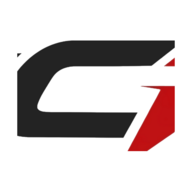
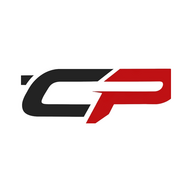
Corrige el ícono de la app: quita la transparencia y deja la "CP" completa
El ícono anterior conservaba su fondo transparente (el recorte solo le
agregaba lienzo blanco alrededor, sin aplanar la transparencia interna),
así que en el celular se veía con un fondo oscuro/recortado feo detrás de
la letra en vez de un fondo blanco limpio. También mostraba solo la "C"
con una esquina roja suelta de la "P". Ahora el ícono aplana todo a blanco
sólido (sin canal alfa) y muestra el monograma "CP" completo, bien
centrado con margen.

Claude-Session: https://claude.ai/code/session_017DWodS2TJv8UrLv9yacsAY

diff --git a/index.html b/index.html
@@ -9,7 +9,7 @@
 <link rel="apple-touch-icon" href="icon-180.png">
 <link rel="manifest" href="manifest.webmanifest">
 <meta name="theme-color" content="#8c1d24">
-<link rel="stylesheet" href="style.css?v=2026-11-23T05-25-30">
+<link rel="stylesheet" href="style.css?v=2026-11-23T05-31-31">
 <script src="https://cdn.jsdelivr.net/npm/@supabase/supabase-js@2" onerror="window.__supabaseCdnFailed = true"></script>
 <script src="https://cdnjs.cloudflare.com/ajax/libs/pdf.js/3.11.174/pdf.min.js" onerror="window.__pdfCdnFailed = true"></script>
 <script src="https://cdnjs.cloudflare.com/ajax/libs/tesseract.js/5.0.4/tesseract.min.js" onerror="window.__ocrCdnFailed = true"></script>
@@ -743,6 +743,6 @@
   </div>
 </div>
 
-<script src="app.js?v=2026-11-23T05-25-30"></script>
+<script src="app.js?v=2026-11-23T05-31-31"></script>
 </body>
 </html>
